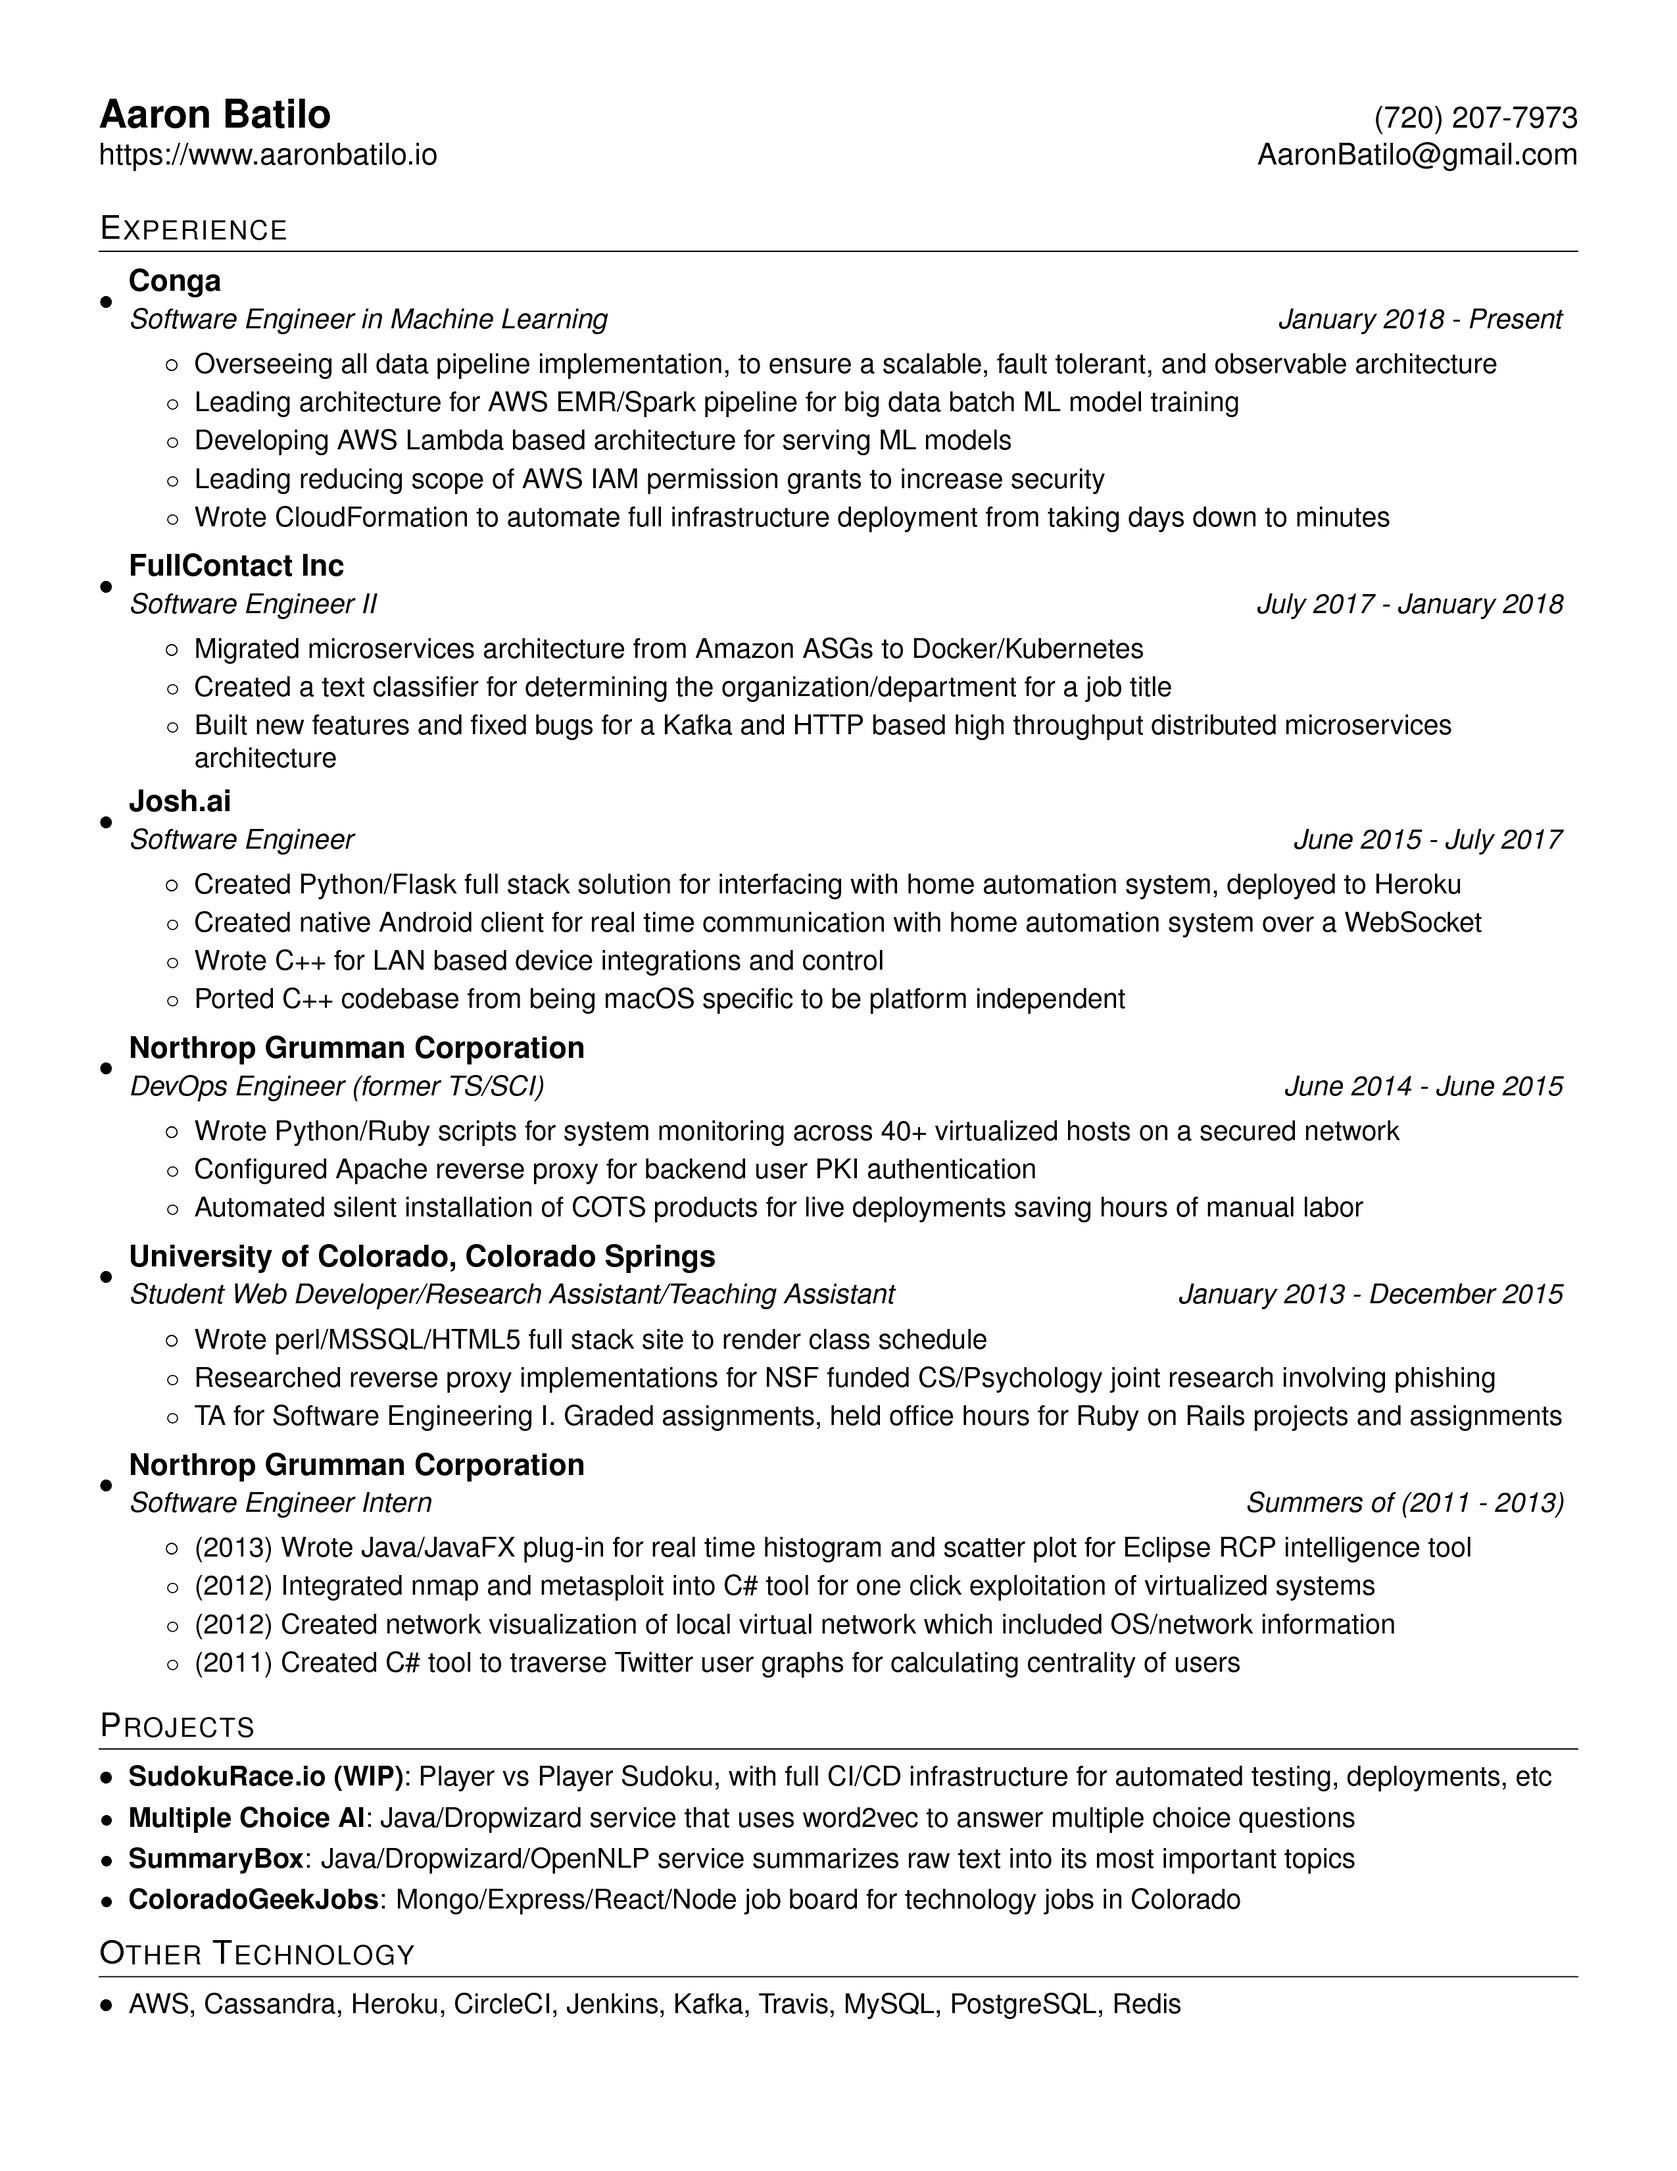
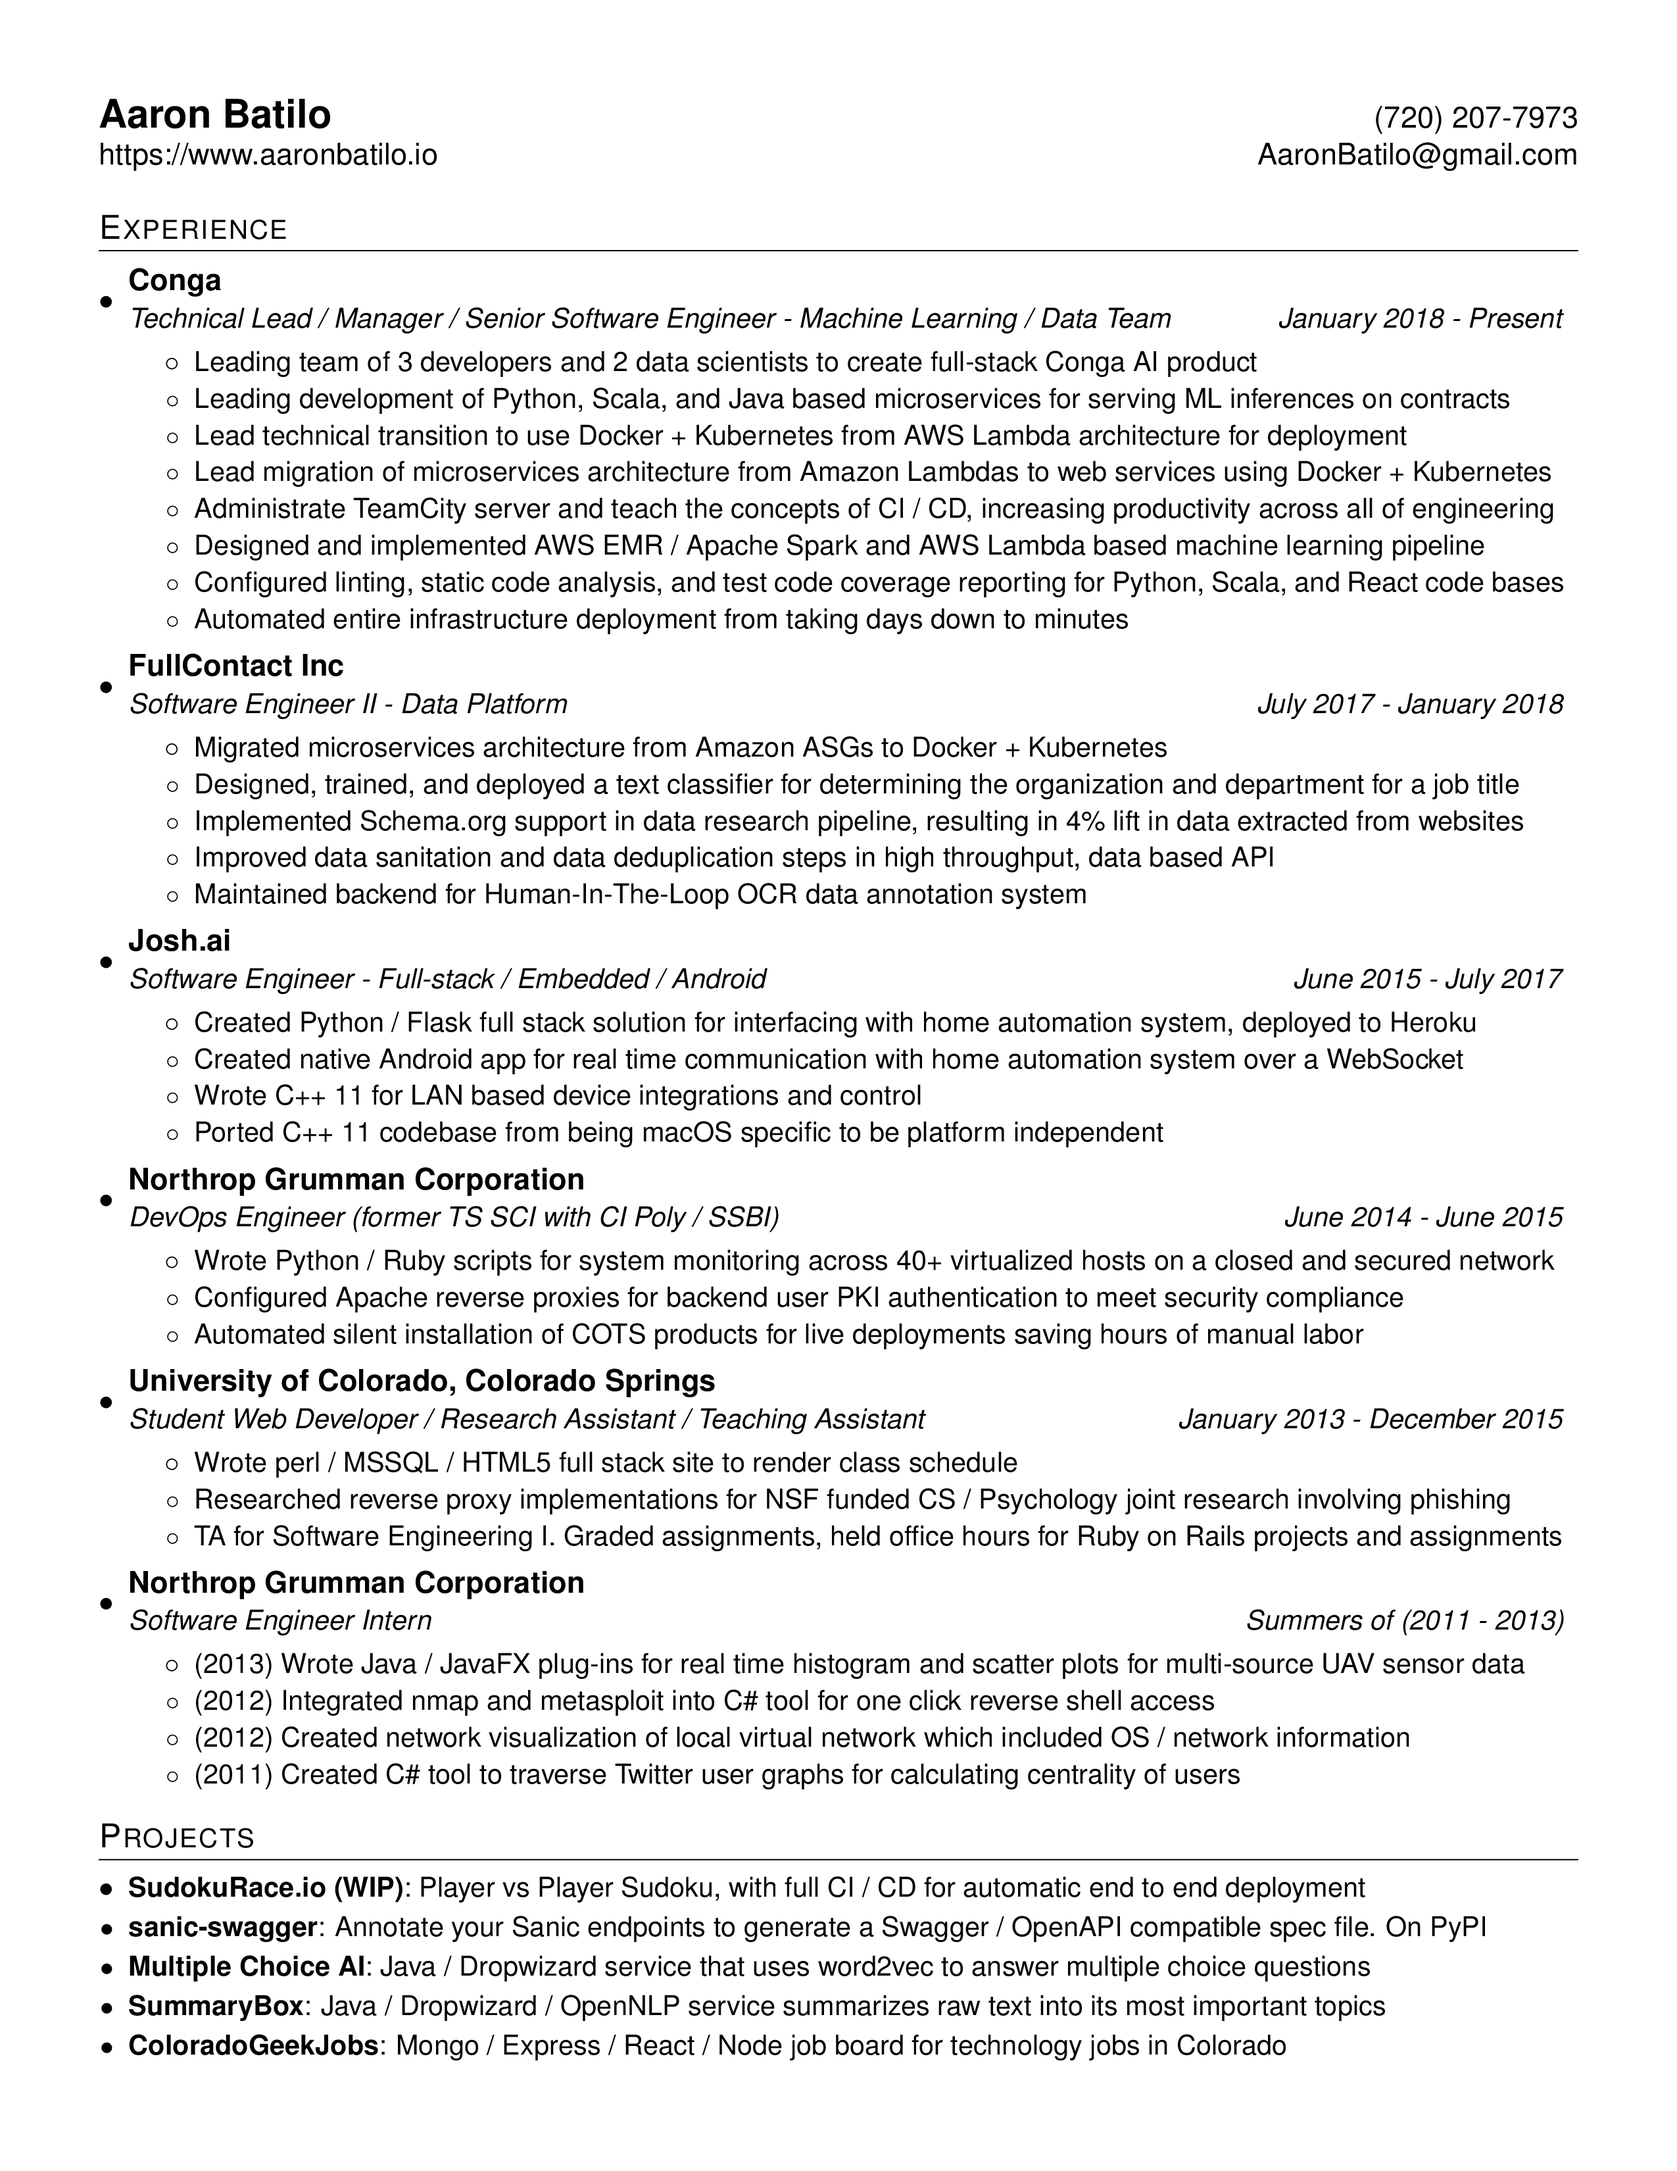
Add information about promotion to manager

Changed region(s): [[0.062, 0.1248, 0.9294, 0.9676], [0.8984, 0.3121, 0.9294, 0.3433]]

diff --git a/resume.tex b/resume.tex
@@ -93,15 +93,16 @@
 
     \resumeSubheading
       {Conga}
-      {Technical Lead/Senior Software Engineer - Machine Learning/Data Team}{January 2018 - Present}
+      {Technical Lead / Manager / Senior Software Engineer - Machine Learning / Data Team}{January 2018 - Present}
       \resumeItemListStart
-        \resumeItemNoBold {Leading development of React application for sending requests to our ML services}
-        \resumeItemNoBold {Leading development of microservices architecture for serving sub-50ms ML inferences}
-        \resumeItemNoBold {Leading technical transition to use Docker + Kubernetes for deployment and orchestration}
-        \resumeItemNoBold {Teaching others to optimize usage of CI/CD, increasing productivity across the engineering organization}
-        \resumeItemNoBold {Configured linting, static code analysis, and test code coverage reporting for Python and Scala code bases}
-        \resumeItemNoBold {Lead development for AWS EMR/Spark pipeline for ML model training}
-        \resumeItemNoBold {Fully automated entire infrastructure deployment from taking days down to minutes}
+        \resumeItemNoBold {Leading team of 3 developers and 2 data scientists to create full-stack Conga AI product}
+        \resumeItemNoBold {Leading development of Python, Scala, and Java based microservices for serving ML inferences on contracts}
+        \resumeItemNoBold {Lead technical transition to use Docker + Kubernetes from AWS Lambda architecture for deployment}
+        \resumeItemNoBold {Lead migration of microservices architecture from Amazon Lambdas to web services using Docker + Kubernetes}
+        \resumeItemNoBold {Administrate TeamCity server and teach the concepts of CI / CD, increasing productivity across all of engineering}
+        \resumeItemNoBold {Designed and implemented AWS EMR / Apache Spark and AWS Lambda based machine learning pipeline}
+        \resumeItemNoBold {Configured linting, static code analysis, and test code coverage reporting for Python, Scala, and React code bases}
+        \resumeItemNoBold {Automated entire infrastructure deployment from taking days down to minutes}
       \resumeItemListEnd
 
     \resumeSubheading
@@ -109,48 +110,49 @@
       {Software Engineer II - Data Platform}{July 2017 - January 2018}
       \resumeItemListStart
         \resumeItemNoBold {Migrated microservices architecture from Amazon ASGs
-        to Docker/Kubernetes}
-        \resumeItemNoBold {Designed, built, trained, and deployed a text classifier for determining the
-        organization/department for a job title}
-        \resumeItemNoBold {Improved data sanitation and duplicate data resolution steps in high throughput, data based API}
-        \resumeItemNoBold {Maintained backend for Human-In-The-Loop data annotation system}
+        to Docker + Kubernetes}
+        \resumeItemNoBold {Designed, trained, and deployed a text classifier for determining the
+        organization and department for a job title}
+        \resumeItemNoBold {Implemented Schema.org support in data research pipeline, resulting in 4\% lift in data extracted from websites}
+        \resumeItemNoBold {Improved data sanitation and data deduplication steps in high throughput, data based API}
+        \resumeItemNoBold {Maintained backend for Human-In-The-Loop OCR data annotation system}
       \resumeItemListEnd
 
     \resumeSubheading
       {Josh.ai}
-      {Software Engineer}{June 2015 - July 2017}
+      {Software Engineer - Full-stack / Embedded / Android}{June 2015 - July 2017}
       \resumeItemListStart
-        \resumeItemNoBold{Created Python/Flask full stack solution for
+        \resumeItemNoBold{Created Python / Flask full stack solution for
         interfacing with home automation system, deployed to Heroku}
-        \resumeItemNoBold{Created native Android client for real time communication with home
+        \resumeItemNoBold{Created native Android app for real time communication with home
         automation system over a WebSocket}
-        \resumeItemNoBold{Wrote C++ for LAN based device integrations and
+        \resumeItemNoBold{Wrote C++ 11 for LAN based device integrations and
         control}
-        \resumeItemNoBold{Ported C++ codebase from being macOS specific to be
+        \resumeItemNoBold{Ported C++ 11 codebase from being macOS specific to be
         platform independent}
       \resumeItemListEnd
 
     \resumeSubheading
       {Northrop Grumman Corporation}
-      {DevOps Engineer (former TS/SCI)}{June 2014 - June 2015}
+      {DevOps Engineer (former TS SCI with CI Poly / SSBI)}{June 2014 - June 2015}
       \resumeItemListStart
-        \resumeItemNoBold{Wrote Python/Ruby scripts for system monitoring
-        across 40+ virtualized hosts on a secured network}
-        \resumeItemNoBold{Configured Apache reverse proxy for backend user PKI
-        authentication}
+        \resumeItemNoBold{Wrote Python / Ruby scripts for system monitoring
+        across 40+ virtualized hosts on a closed and secured network}
+        \resumeItemNoBold{Configured Apache reverse proxies for backend user PKI
+        authentication to meet security compliance}
         \resumeItemNoBold{Automated silent installation of COTS products for
         live deployments saving hours of manual labor}
       \resumeItemListEnd
 
     \resumeSubheading
       {University of Colorado, Colorado Springs}
-      {Student Web Developer/Research Assistant/Teaching Assistant}{January
+      {Student Web Developer / Research Assistant / Teaching Assistant}{January
       2013 - December 2015}
       \resumeItemListStart
-        \resumeItemNoBold{Wrote perl/MSSQL/HTML5 full stack site to render
+        \resumeItemNoBold{Wrote perl / MSSQL / HTML5 full stack site to render
         class schedule}
         \resumeItemNoBold{Researched reverse proxy implementations for NSF
-        funded CS/Psychology joint research involving phishing}
+        funded CS / Psychology joint research involving phishing}
         \resumeItemNoBold{TA for Software Engineering I. Graded assignments,
         held office hours for Ruby on Rails projects and assignments}
       \resumeItemListEnd
@@ -159,12 +161,11 @@
       {Northrop Grumman Corporation}
       {Software Engineer Intern}{Summers of (2011 - 2013)}
       \resumeItemListStart
-        \resumeItemNoBold{(2013) Wrote Java/JavaFX plug-in for real time
-        histogram and scatter plot for Eclipse RCP intelligence tool}
-        \resumeItemNoBold{(2012) Integrated nmap and metasploit into C\# tool
-        for one click exploitation of virtualized systems}
+        \resumeItemNoBold{(2013) Wrote Java / JavaFX plug-ins for real time
+        histogram and scatter plots for multi-source UAV sensor data}
+        \resumeItemNoBold{(2012) Integrated nmap and metasploit into C\# tool for one click reverse shell access}
         \resumeItemNoBold{(2012) Created network visualization of local virtual
-        network which included OS/network information}
+        network which included OS / network information}
         \resumeItemNoBold{(2011) Created C\# tool to traverse Twitter user
         graphs for calculating centrality of users}
       \resumeItemListEnd
@@ -174,24 +175,17 @@
 \section{Projects}
   \resumeSubHeadingListStart
     \resumeSubItem{SudokuRace.io (WIP)}
-      {Player vs Player Sudoku, with full CI/CD infrastructure for automated
-      testing, deployments, etc}
+      {Player vs Player Sudoku, with full CI / CD for automatic end to end deployment}
+    \resumeSubItem{sanic-swagger}
+      {Annotate your Sanic endpoints to generate a Swagger / OpenAPI compatible
+      spec file. On PyPI}
     \resumeSubItem{Multiple Choice AI}
-      {Java/Dropwizard service that uses word2vec to answer
+      {Java / Dropwizard service that uses word2vec to answer
       multiple choice questions}
     \resumeSubItem{SummaryBox}
-      {Java/Dropwizard/OpenNLP service summarizes raw text into its most
+      {Java / Dropwizard / OpenNLP service summarizes raw text into its most
       important topics}
     \resumeSubItem{ColoradoGeekJobs}
-      {Mongo/Express/React/Node job board for technology jobs in Colorado}
+      {Mongo / Express / React / Node job board for technology jobs in Colorado}
   \resumeSubHeadingListEnd
-
-%--------PROGRAMMING SKILLS------------
-\section{Other Technology}
-  \resumeSubHeadingListStart
-    \resumeItemNoBold{AWS, Cassandra, Heroku, CircleCI, Jenkins, Kafka, Travis,
-    MySQL, PostgreSQL, Redis}
-  \resumeSubHeadingListEnd
-
-%-------------------------------------------
 \end{document}
